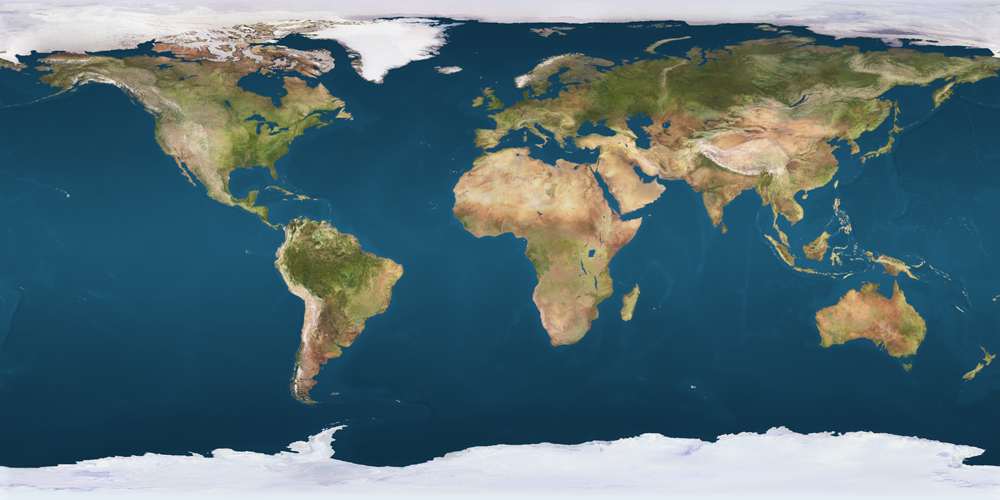
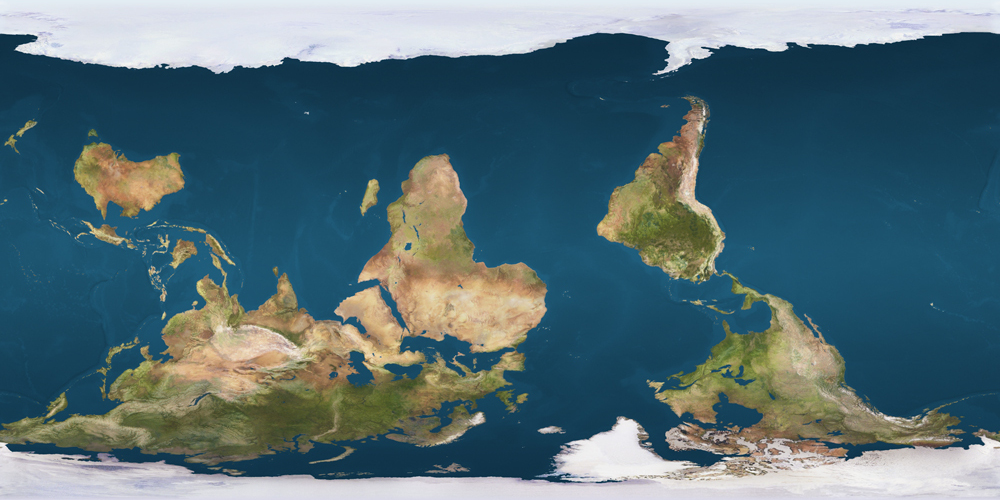
Fixed Earth Texture Map to not be upside down anymore. Currently experimenting with the light source for the solar system, might make a toggle for only ambient light from the sun or a completely illuminated solar system.
On branch Version-2.0
 Your branch is up to date with 'origin/Version-2.0'.

 Changes to be committed:
	modified:   src/App3D-Background/App3DBackground.js
	modified:   src/inner_content/LowerContentComponents/AuroraPanel/lowerContentAurora.js
	modified:   src/resources/Earthmap1000x500.jpg

diff --git a/src/App3D-Background/App3DBackground.js b/src/App3D-Background/App3DBackground.js
@@ -32,7 +32,7 @@ function SolarSystemMapper() {
 const [SolarWind, IntMag, KpIndex, Alerts, Flare, LatestFlare, Enlil, Ovation, HPIData, ForecastData, SunspotData, CMEData, MagnetopauseData, hp30, hp60, loading] = useSpaceWeather();
 
 
-const {CME_Count, isEarthDirected, showAURings, innerSystemOnly} = useControls({CME_Count: 100, isEarthDirected: false, showAURings: true, innerSystemOnly: false});
+const {CME_Count, isEarthDirected, showAURings, innerSystemOnly} = useControls({CME_Count: 100, isEarthDirected: false, showAURings: false, innerSystemOnly: false});
 
 
     const textureMap = useLoader(TextureLoader, require('../resources/euvi_aia304_2012_carrington_print.jpg'));
@@ -153,11 +153,11 @@ function SelectToZoom({children}) {
 
 
     return (
-        <Canvas camera={{near: 0.001, far: 100, fov: 65, makeDefault: true, position: [0, 0, 0]}} style={{top: 0, left: 0, width: '100%', height: '100%' }}>
+        <Canvas camera={{near: 0.001, far: 100, fov: 65, makeDefault: true, position: [2, 1, 0]}} style={{top: 0, left: 0, width: '100%', height: '100%' }}>
             <Suspense fallback={<LoadingScreen/>}>
             <color attach="background" args={['#020205']} />
                 <OrbitControls makeDefault maxDistance={15}/>
-                <ambientLight intensity={2}/>
+                <ambientLight intensity={0.5}/>
                 <pointLight position={[0, 0, 0]} intensity={1.5} />
                 <Bounds observe margin={2} key={isEarthDirected ? true : false}>
                 <SelectToZoom>

diff --git a/src/inner_content/LowerContentComponents/AuroraPanel/lowerContentAurora.js b/src/inner_content/LowerContentComponents/AuroraPanel/lowerContentAurora.js
@@ -21,7 +21,7 @@ export function createAuroraGlobeInstance(rawCoordinates) {
     if (point && point[2] !== undefined) {
       const weight = point[2];
 
-      if (weight > 5) {
+      if (weight > 7) {
         const lng = point[0];
         processedData.push({
           lng: lng > 180 ? lng - 360 : lng,
@@ -42,14 +42,11 @@ export function createAuroraGlobeInstance(rawCoordinates) {
     .hexBinPointLat(d => d.lat)
     .hexBinPointLng(d => d.lng)
     .hexBinPointWeight(d => d.weight)
-    .hexBinResolution(2)
-    .hexMargin(0.2)
+    .hexBinResolution(3)
+    .hexMargin(0.05)
     .hexBinMerge(true)
     
-    .hexAltitude(({ points }) => {
-      const avgWeight = points.reduce((sum, p) => sum + p.weight, 0) / points.length;
-      return avgWeight * 0.005; // Tweaked scale multiplier for visual pop
-    })
+    .hexAltitude(0.05)
     
     .hexTopColor(({ points }) => {
       const avgWeight = points.reduce((sum, p) => sum + p.weight, 0) / points.length;
